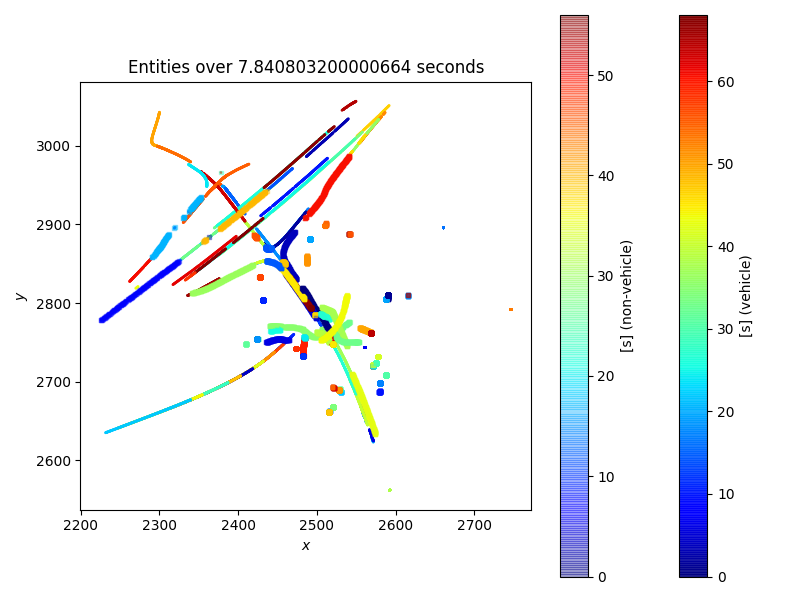
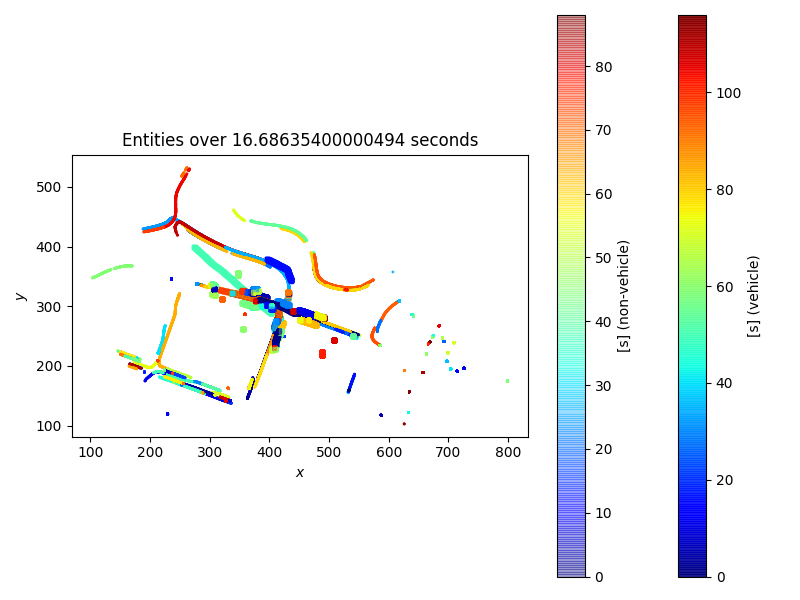
Don't associate to track if too far from last recorded.
It looks like we now have the velocities we need.

diff --git a/src/gta/read_entitystate_data.py b/src/gta/read_entitystate_data.py
@@ -6,6 +6,7 @@ Later, we might want to read from a network socket instead.
 import numbers, numpy as np
 from collections import namedtuple
 from ctypes import c_uint, c_int, c_double, c_float, c_bool, Structure, c_char, sizeof
+from numpy.lib.arraysetops import isin
 from tqdm.auto import tqdm
 import struct
 import matplotlib.pyplot as plt
@@ -92,7 +93,9 @@ for field_name, field_type in EntityState._fields_:
         c_char: 'c',
         c_int: 'i',
     }[field_type]
-    
+
+constant_fields = 'is_player', 'is_vehicle', 'm1', 'm2', 'm3'
+
 EntityStateTuple = namedtuple("EntityStateTuple", [field_name for field_name, unused_field_type in EntityState._fields_])
 
 
@@ -111,7 +114,7 @@ def xorchecksum(data):
     return checksum
 
 
-def is_valid(entity_state, max_abs=1e10):
+def is_valid(entity_state, max_abs=1e7):
     """A crude additional check of whether a packet is reasonable.
     
     TODO: Figure out what's causing unreasonable packets, that still have a valid checksum.
@@ -204,51 +207,302 @@ def read_data(fname):
         from warnings import warn
         warn("We had to skip past the expected next packet location %d times." % num_misses)
     return data
+
+
+class Track:
+    def __init__(self, **interpolation_options):
+        interpolation_options.setdefault('kind', 'cubic')
+        self.interpolators = {}
+        self._entities = []
+        self.interpolation_options = interpolation_options
+
+    @property
+    def duration(self):
+        return self.tmax - self.tmin
+
+    def __len__(self):
+        return self.count
+
+    @property
+    def count(self):
+        return len(self._entities)
+
+    def get_interpolated_state(self, wall_time):
+        return EntityStateTuple(*[self.get_interpolator(k)(wall_time) for (k, unused_field_type) in EntityState._fields_])
+
+    def get(self, field, time):
+        return self.get_interpolator(field)(time)
+
+    def associate(self, entity, unaffinity_threshold=5.0):
+        """Associate an entity with this track."""
+        if self.unaffinity(entity) > unaffinity_threshold:
+            return False
+        else:
+            self._entities.append(entity)
+            self._entities.sort(key=lambda e: e.wall_time)
+            self._clear_caches()
+            return True
+
+    def unaffinity(self, entity, which=-1):
+        """Return the distance between this entity and a chosen entity in this track."""
+        if len(self._entities) == 0:
+            return 0.0
+        if isinstance(which, str) and which == 'min':
+            return min(entity_unaffinity(e, entity) for e in self._entities)
+        else:
+            assert isinstance(which, int)
+            return entity_unaffinity(self._entities[which], entity)
+
+    def _get_data(self, field):
+        return np.array([getattr(entity_state, field) for entity_state in self._entities])
+
+    @property
+    def times(self):
+        return self._get_data('wall_time')
+
+    @property
+    def tmin(self):
+        return min(self.times)
+
+    @property
+    def tmax(self):
+        return max(self.times)
+
+    def get_interpolator(self, field):
+        """Return an interpolator for the given field."""
+        check_datum = self._get_data(field)[0]
+        if isinstance(check_datum, numbers.Number):
+            from scipy.interpolate  import interp1d
+            Interpolator = interp1d
+        else:
+            Interpolator = NearestFetcher
+
+        if field not in self.interpolators:
+            if field in constant_fields:
+                assert len(list(set(self._get_data(field)))) == 1
+            self.interpolators[field] = ScalarInterpolator(
+                Interpolator, self.times, self._get_data(field), **self.interpolation_options
+            )
+        return self.interpolators[field]
+
+    def _clear_caches(self):
+        self.interpolators = {}
+
+    @property
+    def is_player(self):
+        return self._entities[0].is_player
+
+    @property
+    def is_vehicle(self):
+        return self._entities[0].is_vehicle
+
+
+def entity_unaffinity(entity_state1, entity_state2):
+    """Return the distance between two entity states."""
+    checked_fields = 'wall_time', 'posx', 'posy', 'posz', 'is_vehicle', 'is_player'
+    weights        = np.array([1.0, 1.0,    1.0,    1.0,    10.0,    10.0])
+    v1 = np.array([getattr(entity_state1, field) for field in checked_fields])
+    v2 = np.array([getattr(entity_state2, field) for field in checked_fields])
+    e = v1 - v2
+    return np.linalg.norm(e * weights)
+    
+
+class NearestFetcher:
+
+    def __init__(self, x, y, **ignored_kwargs):
+        self.x = np.array(x)
+        order = np.argsort(self.x)
+        self.x = self.x[order]
+        self.y = [y[i] for i in order]
+
+    def __call__(self, new_x):
+        closest = np.argmin(np.abs(new_x - self.x))
+        return self.y[closest]
+
+
+class ScalarInterpolator:
+
+    def __init__(self, BaseInterpolator, x, y, **kw):
+        if len(x) < 2:
+            BaseInterpolator = NearestFetcher
+        else:
+            min_points = {1: 'nearest', 2: 'linear', 3: 'quadratic', 4: 'cubic'}
+            kw.setdefault('kind', 'cubic')
+            n = len(x)
+            assert n == len(y)
+            kind = min_points.get(n, kw['kind'])
+            if kind != kw['kind']:
+                from warnings import warn
+                warn("ScalarInterpolator: changing interpolation kind from %s to %s because we only have %d points." % (kw['kind'], kind, n))
+            
+            kw['kind'] = kind
         
+        
+        assert len(x) == len(y)
+        self.base_interpolator = BaseInterpolator(x, y, **kw)
+        
+    def __call__(self, new_x):
+        new_y = self.base_interpolator(new_x)
+        if not isinstance(new_x, np.ndarray) and isinstance(new_y, np.ndarray):
+            new_y = np.atleast_1d(new_y)[0]
+        return new_y
 
-def read_data_main(plot_3d=False, fname="C:\Program Files (x86)\Steam\SteamApps\common\Grand Theft Auto V\GTA_recording.bin"):
+
+class TrackManager:
+
+    def __init__(self, entities=None, pbar=True):
+        self.trackgroups = {}
+        if entities is not None:
+            for entity in entities if not pbar else tqdm(entities, unit='entities', desc='Associating entities with tracks'):
+                self.associate(entity)
+
+    def associate(self, entity):
+        associated = False
+        if entity.id not in self.trackgroups:
+            self.trackgroups[entity.id] = [Track()]
+        for track in self.trackgroups[entity.id]:
+            associated = track.associate(entity)
+            if associated:
+                break
+        if not associated:
+            new_track = Track()
+            associated = new_track.associate(entity)
+            self.trackgroups[entity.id].append(new_track)
+        assert associated
+
+    @property
+    def tracks(self):
+        out = []
+        for trackgroup in self.trackgroups.values():
+            out.extend(trackgroup)
+        return out
+
+    def get_active_tracks(self, time):
+        """Return a list of tracks that are active at the given time."""
+        active_tracks = []
+        for track in self.tracks:
+            if track.tmin <= time < track.tmax:
+                active_tracks.append(track)
+        return active_tracks
+
+    @property
+    def tmin(self):
+        return min([track.tmin for track in self.tracks])
+
+    @property
+    def tmax(self):
+        return max([track.tmax for track in self.tracks])
+
+    @property
+    def player_ped(self):
+        return self._get_first_track_by_prop(test=lambda track: track.is_player and not track.is_vehicle)
+
+    @property
+    def player_veh(self):
+        return self._get_first_track_by_prop(test=lambda track: track.is_player and track.is_vehicle)
+    
+    def _get_first_track_by_prop(self, test):
+        player_ped_tracks = [track for track in self.tracks if test(track)]
+        if len(player_ped_tracks) == 0:
+            return None
+        elif len(player_ped_tracks) > 1:
+            from warnings import warn
+            warn(
+                "Multiple %s tracks found. Using the first one. " % test
+            )
+        return player_ped_tracks[0]
+
+def read_data_main(plot_3d=False, fname="C:\Program Files (x86)\Steam\SteamApps\common\Grand Theft Auto V\\"):
+    if fname.endswith('\\') or fname.endswith('/'):
+        from glob import glob
+        binfiles = list(sorted(glob(fname + "GTA_recording*bin")))
+        fname = binfiles[-1]
+        print('Found most recent binfile:', fname)
+
     data = read_data(fname)
-
-    ego_peds = [d for d in data if not d.is_vehicle and d.is_player]
-    ego_vehs = [d for d in data if d.is_vehicle and d.is_player]
-
-    x_ego = [d.posx for d in ego_peds]
-    y_ego = [d.posy for d in ego_peds]
-    z_ego = [d.posz for d in ego_peds]
-
-    x_ego_veh = [d.posx for d in ego_vehs]
-    y_ego_veh = [d.posy for d in ego_vehs]
-    z_ego_veh = [d.posz for d in ego_vehs]
+    track_manager = TrackManager(data)
+    t_mean = (track_manager.tmin + track_manager.tmax) / 2.
+    #active_tracks = track_manager.get_active_tracks(t_mean)
+ 
 
 
     # Make some pretty plots.
-    fig, ax = plt.subplots()
-    t = [d.wall_time for d in ego_peds]
-    ax.plot(x_ego, y_ego, 'k-', label='ped')
-    ax.plot(x_ego_veh, y_ego_veh, 'r-', linewidth=12, alpha=.5, label='vehicle')
-    ax.legend()
-    fig.colorbar(
-        ax.scatter(x_ego, y_ego, c=t, alpha=.5),
-        ax=ax,
-        label="wall time"
-    )
-    ax.set_xlabel('$x$')
-    ax.set_ylabel('$y$')
-    ax.set_aspect('equal')
-    duration = max(t) - min(t)
-    ax.set_title('Ego Ped/Vehicle over %s seconds' % duration)
-    
+    from os.path import join, dirname
+    HERE = dirname(__file__)
+    fig_dir = join(HERE, '..', '..', 'doc')
 
-    fig, ax = plt.subplots()
-    ax.plot(t, x_ego, label='$x(t)$')
-    ax.plot(t, y_ego, label='$y(t)$')
-    get_spd = lambda d: d.velx**2 + d.vely**2 + d.velz**2
-    spd = [get_spd(d) for d in ego_peds]
-    ax.plot(t, spd, label='$||v(t)||$')
-    ax.set_xlabel('wall time')
-    ax.set_ylabel('position')
-    ax.legend()
-    ax.set_title('Ego Ped over %s seconds' % duration)
+    fig, ax = plt.subplots(figsize=(12, 12))
+    ax.set_aspect("equal")
+    for track in track_manager.tracks:
+
+        # Plot the spline.
+        T = np.linspace(track.tmin, track.tmax, 1024)
+        X = track.get('posx', T)
+        Y = track.get('posy', T)
+        style = dict(alpha=.7)
+        if track.is_player:
+            style['linewidth'] = 8
+        if track.is_vehicle:
+            style['linestyle'] = '--'
+        else:
+            style['linestyle'] = '-'
+        line = ax.plot(X, Y, **style)[0]
+
+        # Plot the underlying data.
+        X = track._get_data('posx')
+        Y = track._get_data('posy')
+        ax.scatter(X, Y, color=line._color, s=1)
+
+    ax.set_xlabel('X')
+    ax.set_ylabel('Y')
+    vehicle_tracks = [track for track in track_manager.tracks if track.is_vehicle]
+    pla_veh_tracks = [track for track in vehicle_tracks if track.is_player]
+    ped_tracks = [track for track in track_manager.tracks if not track.is_vehicle]
+    pla_ped_tracks = [track for track in ped_tracks if track.is_player]
+    print('Lengths of player ped tracks:', [
+        '%d ents, %.1f sec' % (len(track._entities), track.tmax - track.tmin) for track in pla_ped_tracks
+    ])
+    print('Lengths of player veh tracks:', [
+        '%d ents, %.1f sec' % (len(track._entities), track.tmax - track.tmin) for track in pla_veh_tracks
+    ])
+    fig.suptitle(
+        '{nveh} vehicle tracks, incl. {nvehpla} player\n{nped} pedestrian tracks, incl. {npedpla} player'.format(
+            nveh=len(vehicle_tracks), nvehpla=len(pla_veh_tracks), 
+            nped=len(ped_tracks), npedpla=len(pla_ped_tracks)
+        )
+    )
+    fig.tight_layout()
+    fig.subplots_adjust(top=.9)
+    for ext in ['png', 'pdf']:
+        fig.savefig(join(fig_dir, 'associated_tracks.%s' % ext))
+
+
+    player_veh = track_manager.player_veh
+    if player_veh is not None:
+        fig, ax = plt.subplots()
+        T = np.linspace(player_veh.tmin, player_veh.tmax, 1200)
+        ax.plot(T, player_veh.get('posx', T), label='x')
+        ax.plot(T, player_veh.get('posy', T), label='y')
+        ax.plot(T, player_veh.get('posz', T), label='z')
+        velx = player_veh.get('velx', T)
+        vely = player_veh.get('vely', T)
+        velz = player_veh.get('velz', T)
+        ax.plot(T, velx, label='velx')
+        ax.plot(T, vely, label='vely')
+        ax.plot(T, velz, label='velz')
+        spd = np.sqrt(velx**2 + vely**2 + velz**2)
+        ax.plot(T, spd, label='overall speed (vel mag)')
+        ax.set_xlabel('Time (s)')
+        ax.legend()
+        fig.tight_layout()
+        for ext in ['png', 'pdf']:
+            fig.savefig(join(fig_dir, 'player_vehicle.%s' % ext))
+
+        x_ego = [d.posx for d in player_veh._entities]
+        y_ego = [d.posy for d in player_veh._entities]
+        z_ego = [d.posz for d in player_veh._entities]
+
+
 
 
     
@@ -303,7 +557,7 @@ def read_data_main(plot_3d=False, fname="C:\Program Files (x86)\Steam\SteamApps\
             ax=ax,
             label='[s] (%s)' % ent_type
         )
-        if plot_3d:
+        if plot_3d and player_veh is not None:
             center_x = np.mean(x_ego)
             center_y = np.mean(y_ego)
             center_z = np.mean(z_ego)
@@ -321,9 +575,7 @@ def read_data_main(plot_3d=False, fname="C:\Program Files (x86)\Steam\SteamApps\
     duration = max(t) - min(t)
     ax.set_title('Entities over %s seconds' % duration)
     
-    from os.path import join, dirname
-    HERE = dirname(__file__)
-    fig_dir = join(HERE, '..', '..', 'doc')
+    
     fig.tight_layout()
     fig.savefig(join(fig_dir, 'entity_tracks.png'))
 
